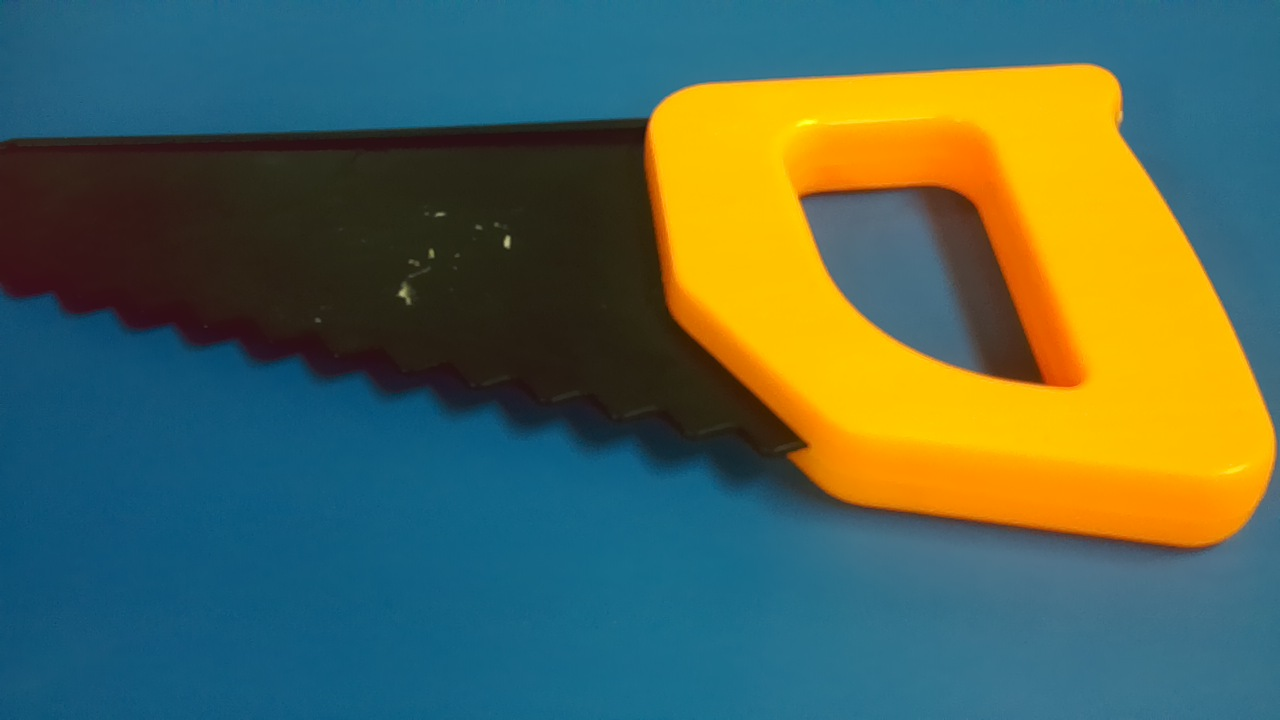
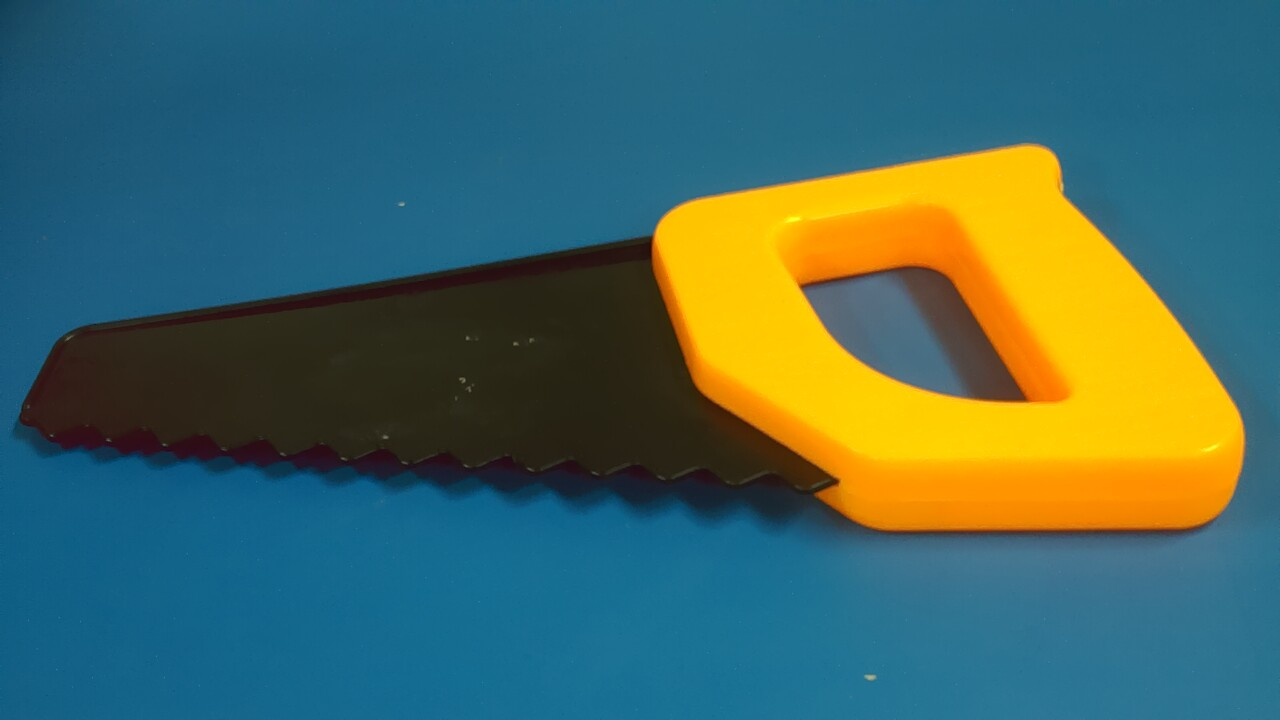
update: novas funções e ferramentas de capttura

diff --git a/coleta_fotos.py b/coleta_fotos.py
@@ -1,10 +1,11 @@
 import io
 import os
-import subprocess
+import sys
+import time
+import threading
 from http.server import BaseHTTPRequestHandler, HTTPServer
 from socketserver import ThreadingMixIn
-import threading
-import time
+from picamera2 import Picamera2
 
 CLASSE = "serrote"  # Altere para "martelo", "parafuso", etc.
 PASTA_DESTINO = f"tcc_vita_dataset/images/{CLASSE}"
@@ -13,12 +14,17 @@ TOTAL_AMOSTRAS = 400
 os.makedirs(PASTA_DESTINO, exist_ok=True)
 
 
-def obter_proximo_indice():
+def obter_arquivos_ordenados():
     arquivos = [
         f
         for f in os.listdir(PASTA_DESTINO)
         if f.startswith(CLASSE) and f.endswith(".jpg")
     ]
+    return sorted(arquivos)
+
+
+def obter_proximo_indice():
+    arquivos = obter_arquivos_ordenados()
     if not arquivos:
         return 0
     indices = []
@@ -32,15 +38,22 @@ def obter_proximo_indice():
 
 
 proximo_indice = obter_proximo_indice()
-ultima_foto_salva = None
-frame_atual = None
-lock_frame = threading.Lock()
-camera_bloqueada = False  # Flag para pausar o stream durante o clique
+
+# Inicialização Nativa da Câmera
+picam2 = Picamera2()
+config = picam2.create_preview_configuration(main={"size": (1280, 720)})
+picam2.configure(config)
+picam2.start()
 
 
 class StreamingHandler(BaseHTTPRequestHandler):
 
+    # Oculta logs do servidor no terminal
+    def log_message(self, format, *args):
+        return
+
     def do_GET(self):
+        # 1. Transmissão em Tempo Real
         if self.path == "/":
             self.send_response(200)
             self.send_header(
@@ -49,11 +62,9 @@ class StreamingHandler(BaseHTTPRequestHandler):
             self.end_headers()
             try:
                 while True:
-                    with lock_frame:
-                        if frame_atual is None:
-                            time.sleep(0.05)
-                            continue
-                        buf = frame_atual
+                    stream = io.BytesIO()
+                    picam2.capture_file(stream, format="jpeg")
+                    buf = stream.getvalue()
 
                     self.wfile.write(b"--FRAME\r\n")
                     self.send_header("Content-Type", "image/jpeg")
@@ -61,9 +72,50 @@ class StreamingHandler(BaseHTTPRequestHandler):
                     self.end_headers()
                     self.wfile.write(buf)
                     self.wfile.write(b"\r\n")
-                    time.sleep(0.1)
+                    time.sleep(0.08)
             except Exception:
                 pass
+
+        # 2. Galeria de Fotos em /fotos
+        elif self.path == "/fotos":
+            self.send_response(200)
+            self.send_header("Content-type", "text/html; charset=utf-8")
+            self.end_headers()
+
+            arquivos = obter_arquivos_ordenados()
+            html = f"""
+            <html>
+            <head>
+                <style>
+                    body {{ font-family: sans-serif; padding: 20px; }}
+                    ul {{ line-height: 1.8; }}
+                </style>
+            </head>
+            <body>
+                <h2>Fotos Salvas - Classe: {CLASSE.upper()} ({len(arquivos)}/{TOTAL_AMOSTRAS})</h2>
+                <p><a href="/fotos">🔄 Recarregar Galeria</a></p>
+                <ul>
+            """
+            if not arquivos:
+                html += "<li><i>Nenhuma foto salva até o momento.</i></li>"
+            else:
+                for arq in arquivos:
+                    html += f'<li><a href="/foto/{arq}" target="_blank">{arq}</a></li>'
+            html += "</ul></body></html>"
+            self.wfile.write(html.encode("utf-8"))
+
+        # 3. Exibição de foto individual
+        elif self.path.startswith("/foto/"):
+            nome_arq = self.path.replace("/foto/", "")
+            caminho_completo = os.path.join(PASTA_DESTINO, nome_arq)
+            if os.path.exists(caminho_completo):
+                self.send_response(200)
+                self.send_header("Content-type", "image/jpeg")
+                self.end_headers()
+                with open(caminho_completo, "rb") as f:
+                    self.wfile.write(f.read())
+            else:
+                self.send_error(404, "Arquivo nao encontrado")
 
 
 class ThreadedHTTPServer(ThreadingMixIn, HTTPServer):
@@ -76,102 +128,80 @@ def iniciar_servidor_http():
     server.serve_forever()
 
 
-def capturar_frames():
-    global frame_atual, camera_bloqueada
-    while True:
-        # Se a tecla 's' foi pressionada, a thread do stream espera a câmera ser liberada
-        if camera_bloqueada:
-            time.sleep(0.1)
-            continue
-
-        cmd = [
-            "rpicam-still",
-            "-o",
-            "-",
-            "-t",
-            "1",
-            "--width",
-            "640",
-            "--height",
-            "480",
-            "-n",
-            "--quality",
-            "50",
-        ]
-        proc = subprocess.run(
-            cmd, stdout=subprocess.PIPE, stderr=subprocess.DEVNULL
-        )
-        if proc.returncode == 0:
-            with lock_frame:
-                frame_atual = proc.stdout
-        time.sleep(0.05)
-
-
 threading.Thread(target=iniciar_servidor_http, daemon=True).start()
-threading.Thread(target=capturar_frames, daemon=True).start()
 
 print(f"=== STREAMING E COLETA TCC V.I.T.A ===")
-print(f"Abra no navegador do PC: http://100.78.71.106:8080")
+print(f"Abra o Stream no navegador: http://100.78.71.106:8080")
+print(f"Abra a Galeria no navegador: http://100.78.71.106:8080/fotos")
 print(
     f"Classe ativa: {CLASSE.upper()} | Fotos: {proximo_indice}/{TOTAL_AMOSTRAS}"
 )
 print("-" * 40)
 print("Comandos do Terminal:")
-print("  s + ENTER -> Capturar foto em ALTA RESOLUÇÃO")
-print("  d + ENTER -> Deletar última foto")
-print("  e + ENTER -> Sair")
+print("  s + ENTER     -> Capturar nova foto")
+print("  d + ENTER     -> Deletar a última foto salva")
+print("  d N + ENTER   -> Deletar foto específica (ex: d 0, d 9, d 12)")
+print("  e + ENTER     -> Sair")
 print("-" * 40)
 
-while proximo_indice < TOTAL_AMOSTRAS:
-    comando = (
-        input(f"[{proximo_indice}/{TOTAL_AMOSTRAS}] Digite 's', 'd' ou 'e': ")
-        .strip()
-        .lower()
-    )
-
-    if comando == "s":
-        # Bloqueia o stream para garantir acesso exclusivo do hardware para a foto
-        camera_bloqueada = True
-        time.sleep(0.2)  # Aguarda o último frame do stream encerrar
-
-        nome_arquivo = os.path.join(
-            PASTA_DESTINO, f"{CLASSE}_{proximo_indice:04d}.jpg"
-        )
-        cmd = [
-            "rpicam-still",
-            "-o",
-            nome_arquivo,
-            "-t",
-            "100",
-            "--width",
-            "1280",
-            "--height",
-            "720",
-            "-n",
-        ]
-        res = subprocess.run(
-            cmd, stdout=subprocess.DEVNULL, stderr=subprocess.DEVNULL
-        )
-
-        if res.returncode == 0 and os.path.exists(nome_arquivo):
-            print(f"✓ Foto salva: {nome_arquivo}")
-            ultima_foto_salva = nome_arquivo
-            proximo_indice += 1
-        else:
-            print(
-                "❌ Erro na captura. Tentando novamente na próxima tecla 's'."
+try:
+    while proximo_indice < TOTAL_AMOSTRAS:
+        entrada = (
+            input(
+                f"[{proximo_indice}/{TOTAL_AMOSTRAS}] Digite 's', 'd [N]' ou 'e': "
             )
+            .strip()
+            .lower()
+        )
+        partes = entrada.split()
 
-        # Libera o stream novamente
-        camera_bloqueada = False
+        if not partes:
+            continue
 
-    elif comando == "d":
-        if ultima_foto_salva and os.path.exists(ultima_foto_salva):
-            os.remove(ultima_foto_salva)
-            print(f"🗑 Foto deletada: {ultima_foto_salva}")
-            proximo_indice -= 1
-            ultima_foto_salva = None
+        comando = partes[0]
 
-    elif comando == "e":
-        print("\nEncerrando...")
-        break
+        if comando == "s":
+            nome_arquivo = os.path.join(
+                PASTA_DESTINO, f"{CLASSE}_{proximo_indice:04d}.jpg"
+            )
+            picam2.capture_file(nome_arquivo)
+
+            if os.path.exists(nome_arquivo):
+                print(f"✓ Foto salva: {nome_arquivo}")
+                proximo_indice = obter_proximo_indice()
+            else:
+                print("❌ Erro na captura.")
+
+        elif comando == "d":
+            # Se passou um número após o d (ex: d 0 ou d 9)
+            if len(partes) > 1 and partes[1].isdigit():
+                idx_alvo = int(partes[1])
+                nome_alvo = f"{CLASSE}_{idx_alvo:04d}.jpg"
+                caminho_alvo = os.path.join(PASTA_DESTINO, nome_alvo)
+
+                if os.path.exists(caminho_alvo):
+                    os.remove(caminho_alvo)
+                    print(f"🗑 Foto deletada especificamente: {caminho_alvo}")
+                    proximo_indice = obter_proximo_indice()
+                else:
+                    print(
+                        f"⚠ A foto '{nome_alvo}' não foi encontrada na pasta."
+                    )
+
+            # Se digitou apenas 'd', apaga a última foto da pasta
+            else:
+                arquivos = obter_arquivos_ordenados()
+                if arquivos:
+                    ultima_foto = os.path.join(PASTA_DESTINO, arquivos[-1])
+                    if os.path.exists(ultima_foto):
+                        os.remove(ultima_foto)
+                        print(f"🗑 Última foto deletada: {ultima_foto}")
+                        proximo_indice = obter_proximo_indice()
+                else:
+                    print("⚠ Nenhuma foto encontrada na pasta para deletar.")
+
+        elif comando == "e":
+            print("\nEncerrando...")
+            break
+finally:
+    picam2.stop()
